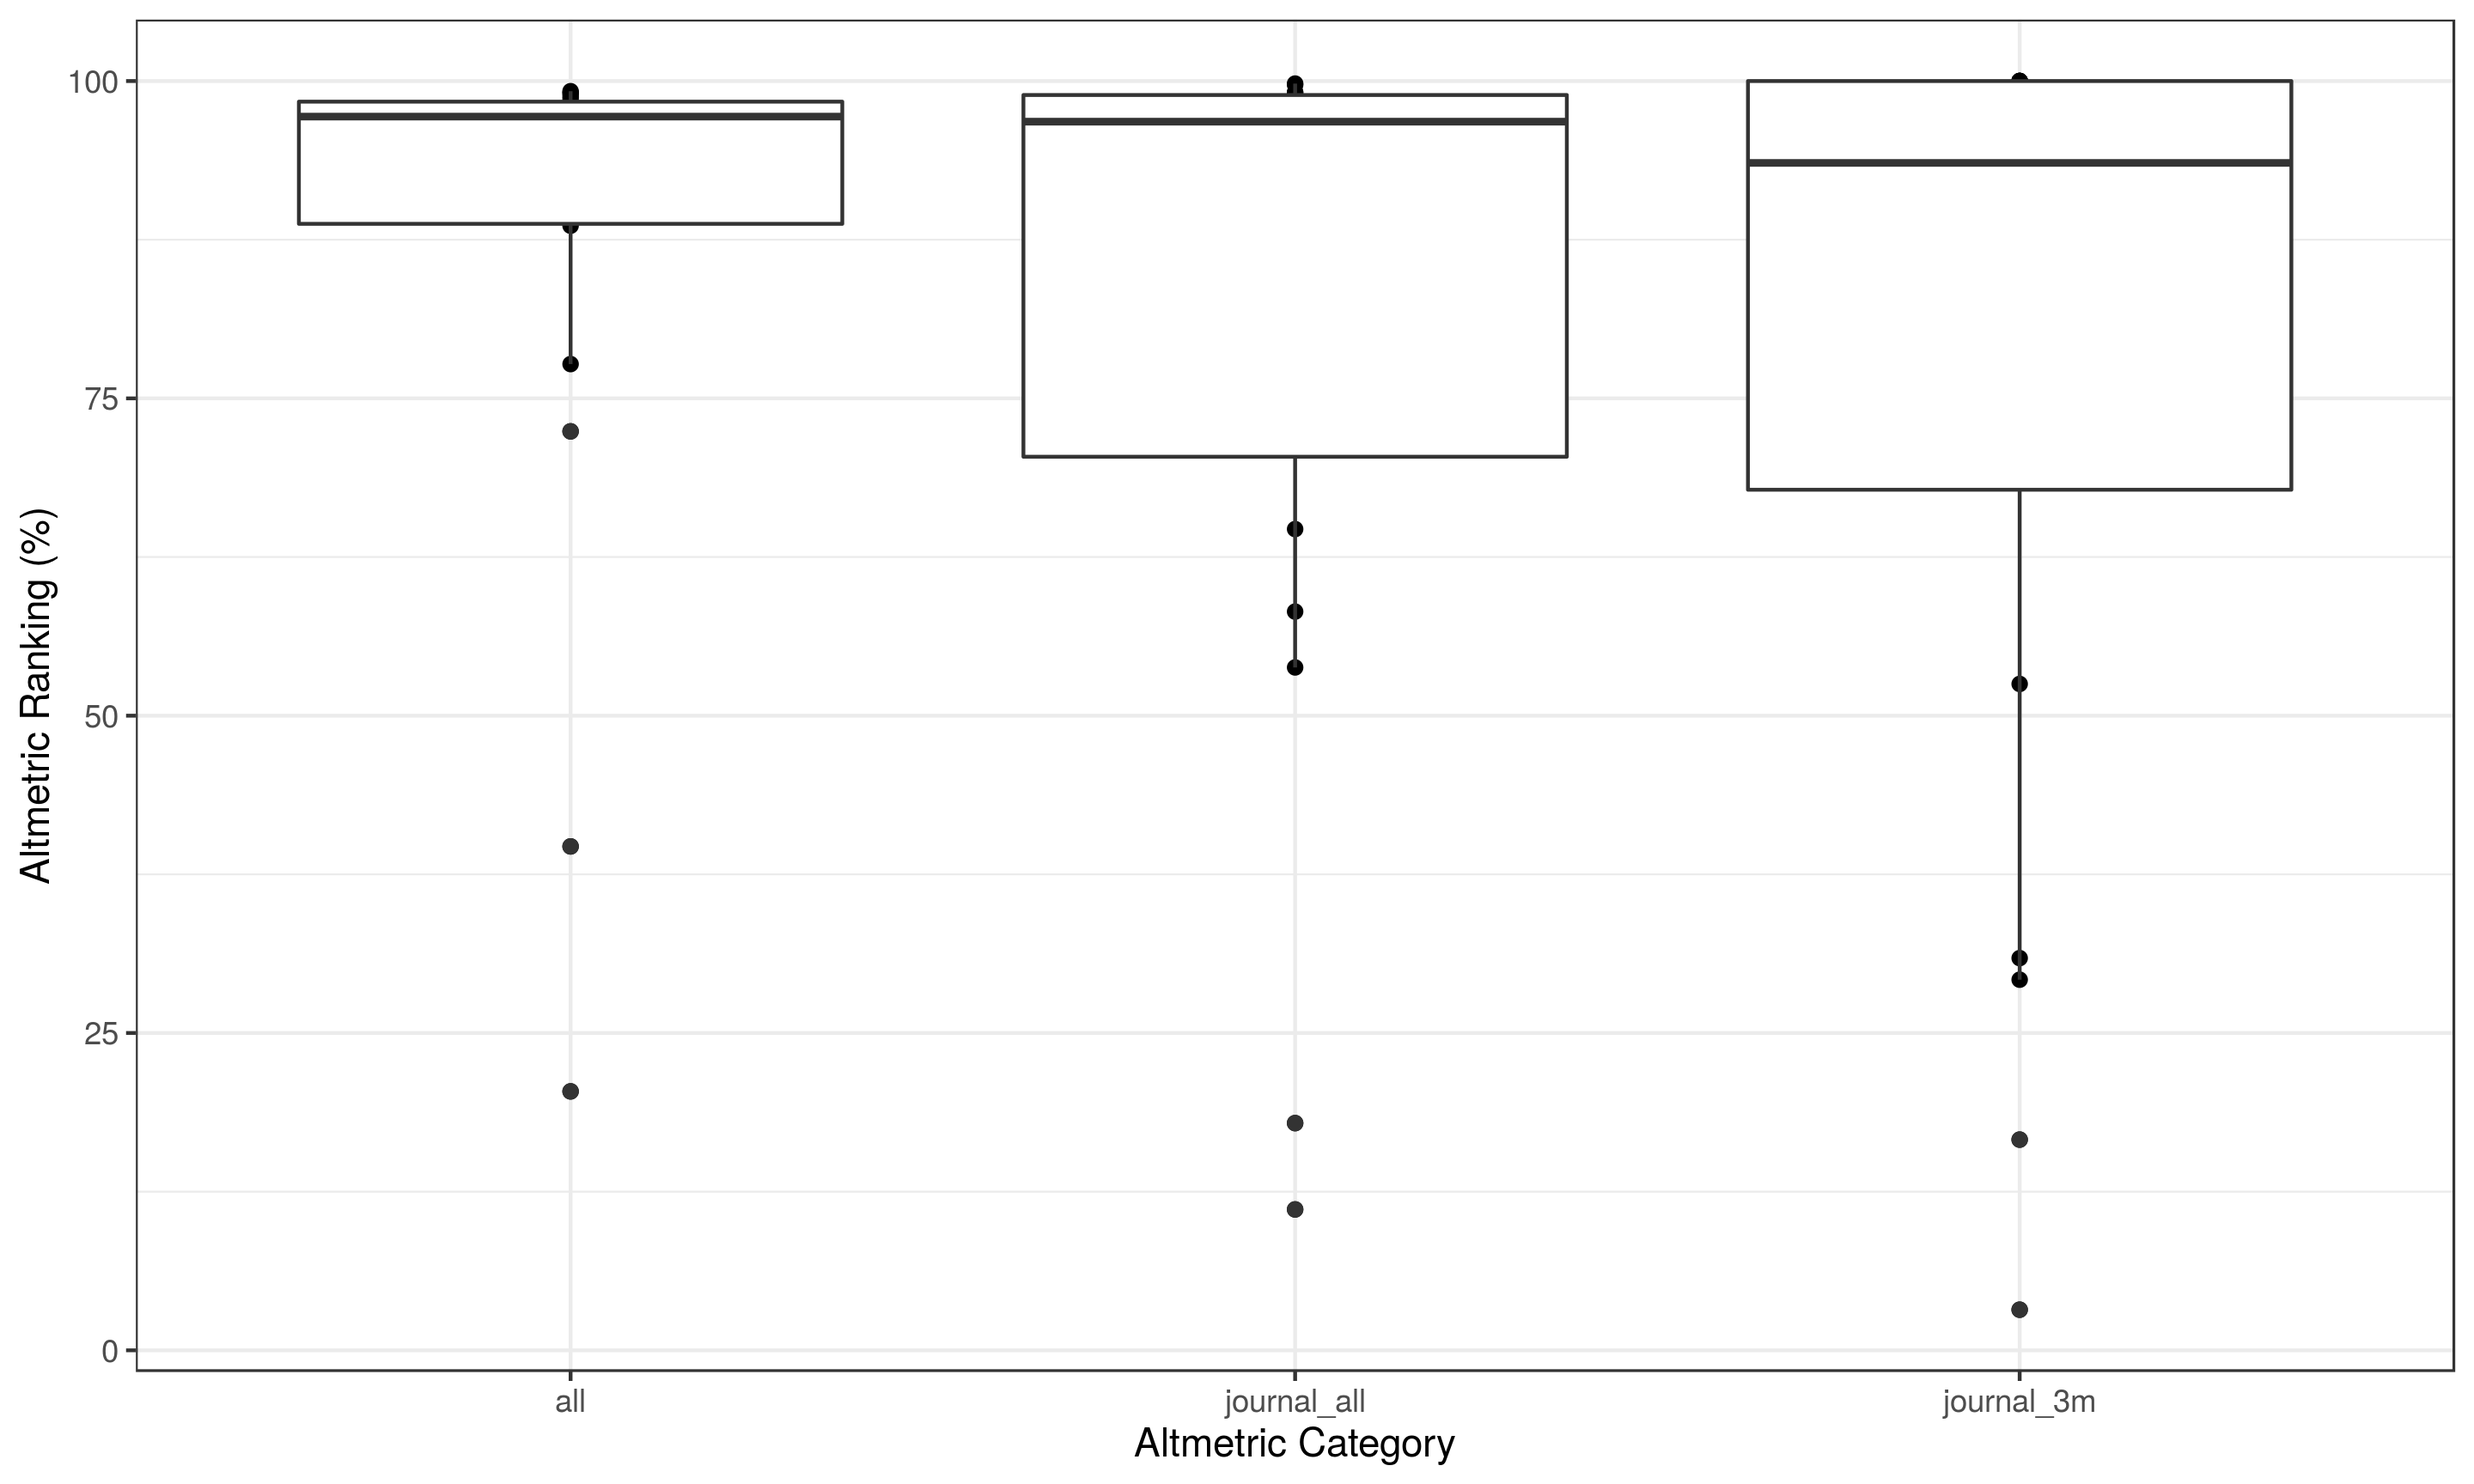
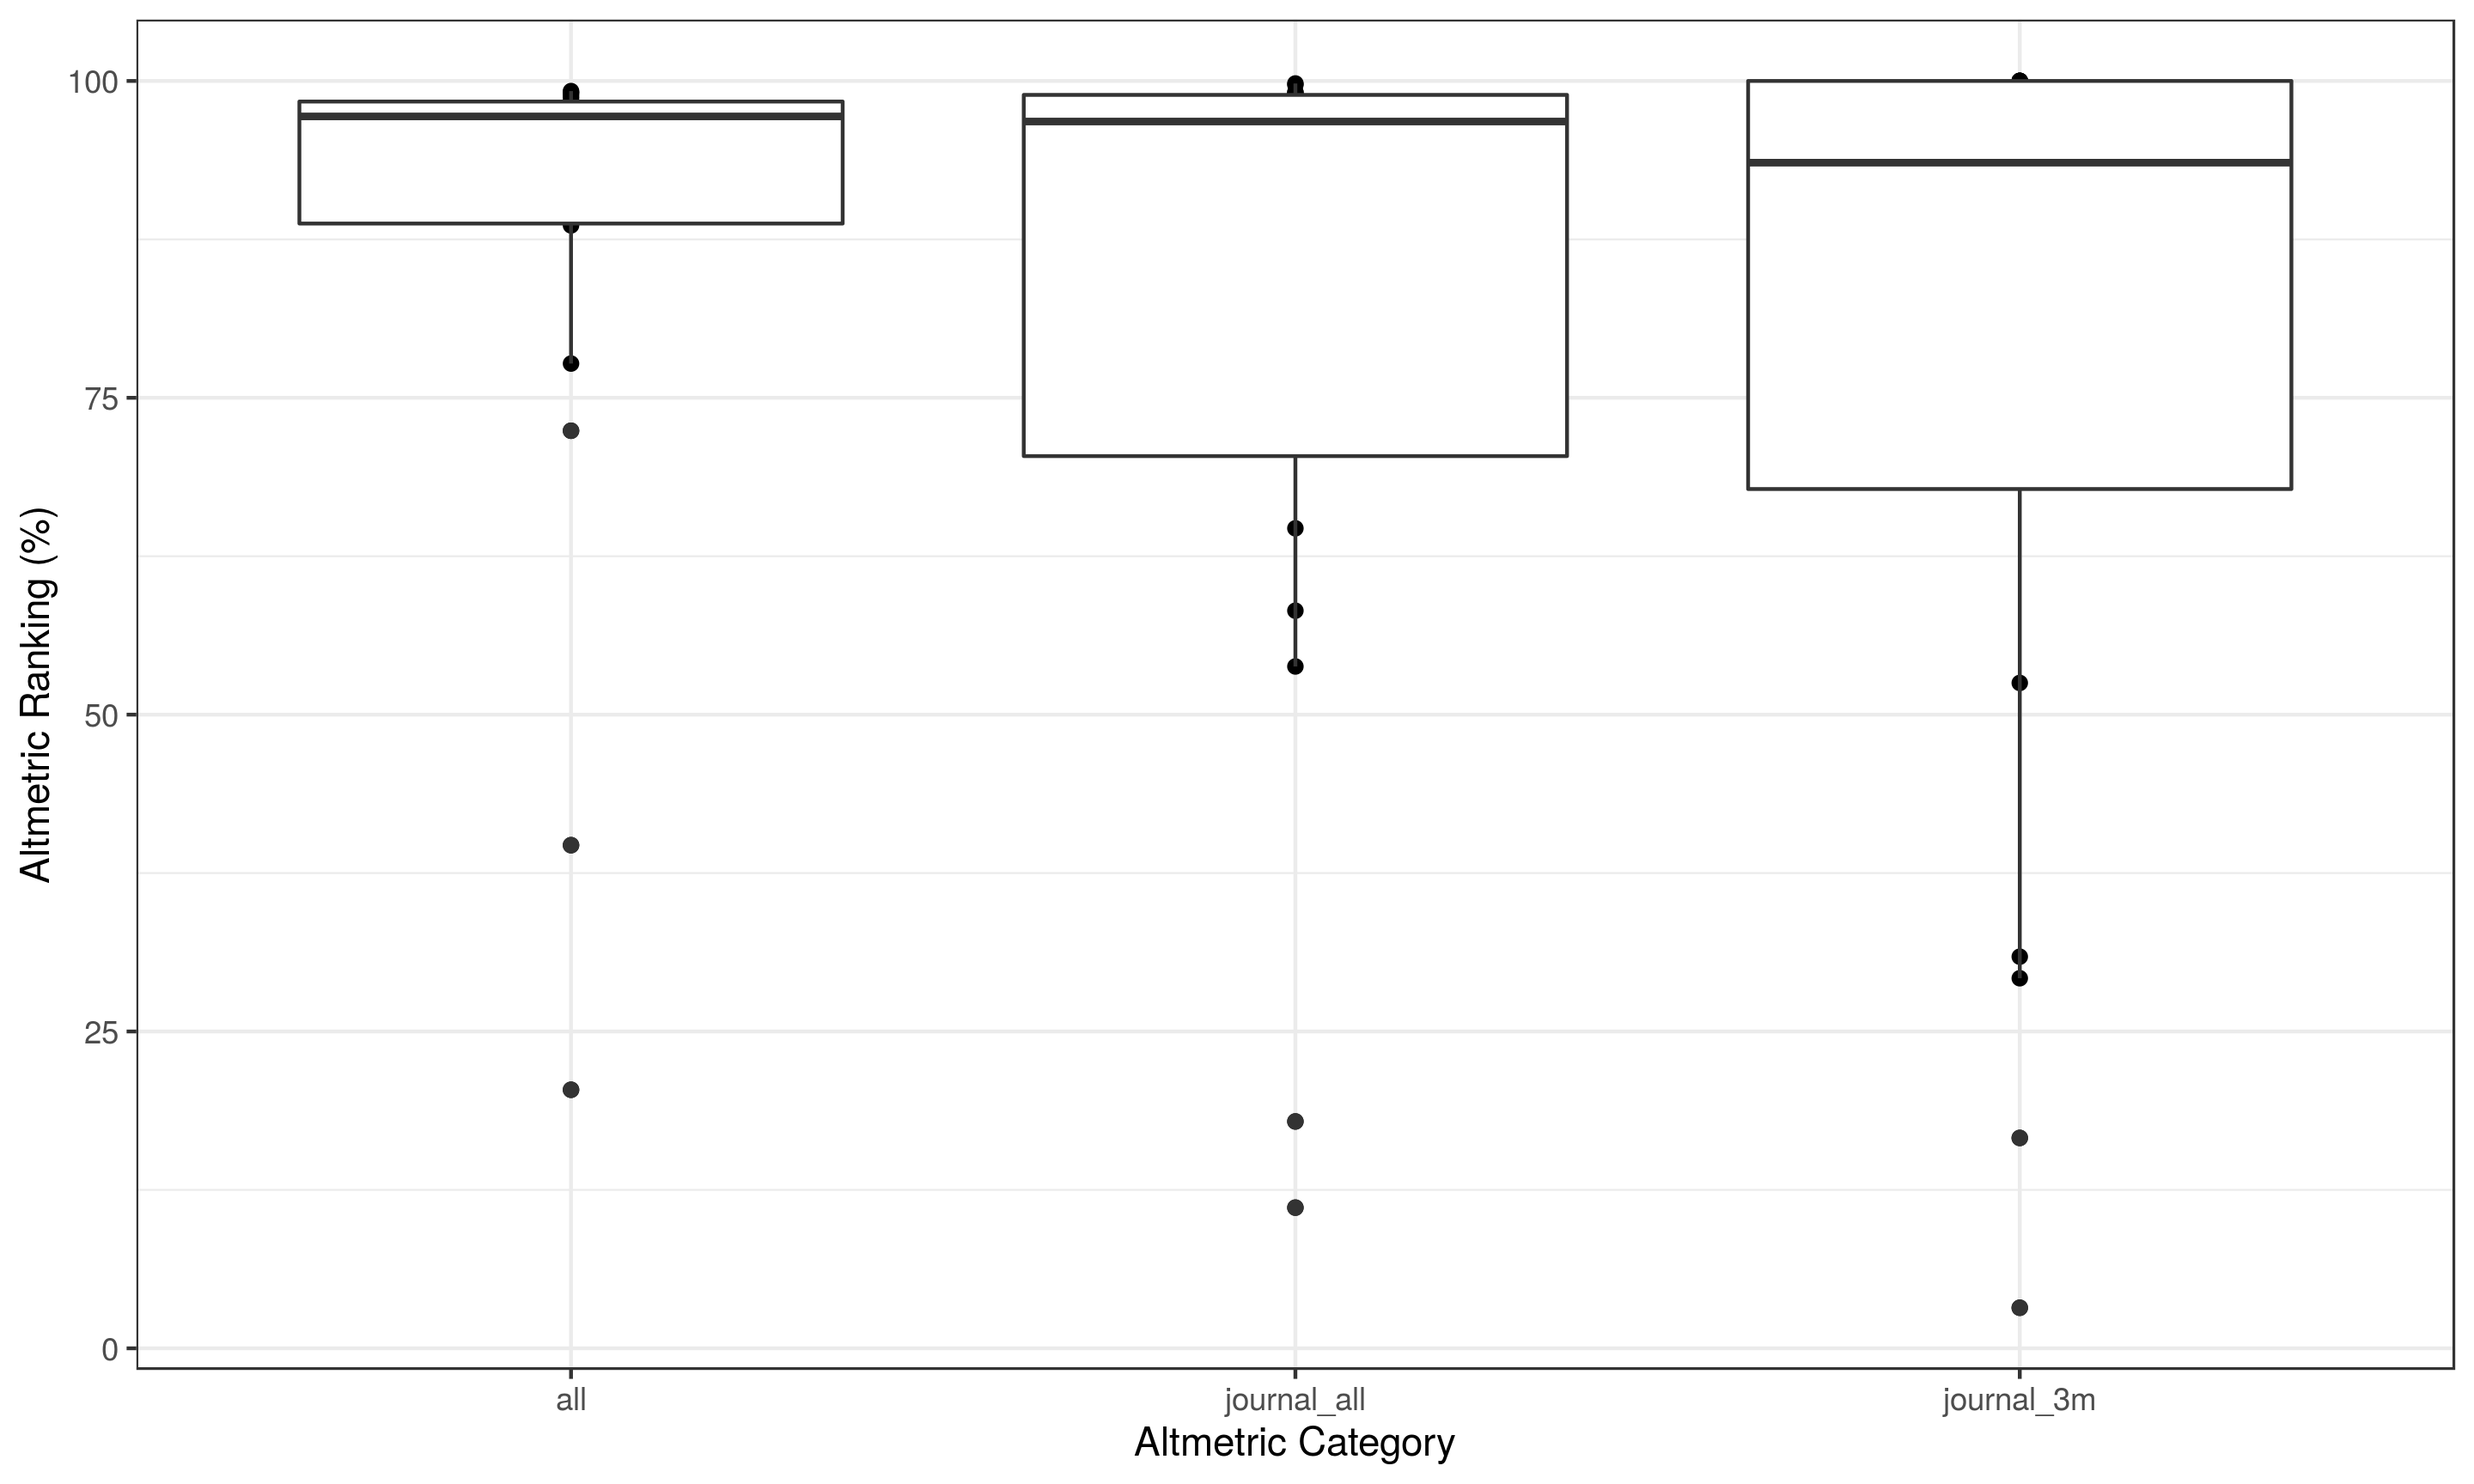
update vig 5

Changed region(s): [[0.0625, 0.9062, 0.9688, 0.9688], [0.5312, 0.9688, 0.5625, 1.0]]

diff --git a/vignettes/vignette_5_altmetric.md b/vignettes/vignette_5_altmetric.md
@@ -2,7 +2,7 @@
 
 On-line attention and engagement for research is now well recognised as
 important alternative metrics to traditional metrics (although there are
-well recognised concerns regarding potential for manipuation), and has
+well recognised concerns regarding potential for manipulation), and has
 been repeatedly found to be positively correlated with article
 citations.
 
@@ -14,8 +14,8 @@ incorporate this data.
 
 **Note**: At present this package only includes Altmetric data. PlumX is
 the other major source of alternative metrics, however there is no open
-API avialable for this product (it requires an authentication token) and
-so has not been incorportated at present.
+API available for this product (it requires an authentication token) and
+so has not been incorporated at present.
 
 ## **impact\_altmetric()**
 
@@ -35,7 +35,7 @@ from:
 
 The `impact_altmetric()` function aims to provide easy access to this
 source of information in useful format. At present this required
-articles to a pubmed identfication number (pmid), however functionality
+articles to a pubmed identification number (pmid), however functionality
 to use DOI as an alternative is planned.
 
 ``` r
@@ -45,9 +45,9 @@ altmetric <- impactr::impact_altmetric(pmid)
 ## **Output**
 
 There are 4 outputs from `impact_altmetric()` as nested dataframes:
-`$df_output`, `$temporal`, `$rank`, and `$source`.
+`$df`, `$temporal`, `$rank`, and `$source`.
 
-### **1. Original dataset ($df\_output)**
+### **1. Original dataset ($df)**
 
 This will return the original dataset with data from altmetric appended
 as columns. There are 4 broad groups that describes the:
@@ -450,7 +450,7 @@ Kamarajah…
 
 <td style="text-align:right;">
 
-\-3916613
+0.7239740
 
 </td>
 
@@ -474,7 +474,7 @@ Kamarajah…
 
 <td style="text-align:right;">
 
-0.5372460
+0.5375282
 
 </td>
 
@@ -498,7 +498,7 @@ Kamarajah…
 
 <td style="text-align:right;">
 
-0.2989691
+0.3092784
 
 </td>
 
@@ -720,7 +720,7 @@ Choi, R. G…
 
 <td style="text-align:right;">
 
-\-582310
+0.9593436
 
 </td>
 
@@ -744,7 +744,7 @@ Choi, R. G…
 
 <td style="text-align:right;">
 
-0.9610420
+0.9612767
 
 </td>
 
@@ -768,7 +768,7 @@ Choi, R. G…
 
 <td style="text-align:right;">
 
-0.9052632
+0.9157895
 
 </td>
 
@@ -990,7 +990,7 @@ NA
 
 <td style="text-align:right;">
 
-\-334118
+0.9762516
 
 </td>
 
@@ -1014,7 +1014,7 @@ NA
 
 <td style="text-align:right;">
 
-0.9700000
+0.9750000
 
 </td>
 
@@ -1038,7 +1038,7 @@ NA
 
 <td style="text-align:right;">
 
-0.9047619
+0.9523810
 
 </td>
 
@@ -1262,7 +1262,7 @@ Griffiths, Reb…
 
 <td style="text-align:right;">
 
-\-124853
+0.9912821
 
 </td>
 
@@ -1286,7 +1286,7 @@ Griffiths, Reb…
 
 <td style="text-align:right;">
 
-0.9789739
+0.9792543
 
 </td>
 
@@ -1310,7 +1310,7 @@ Griffiths, Reb…
 
 <td style="text-align:right;">
 
-0.9135802
+0.9259259
 
 </td>
 
@@ -1531,7 +1531,7 @@ NA
 
 <td style="text-align:right;">
 
-\-114368
+0.9919908
 
 </td>
 
@@ -1555,7 +1555,7 @@ NA
 
 <td style="text-align:right;">
 
-0.9963145
+0.9969287
 
 </td>
 
@@ -1579,7 +1579,7 @@ NA
 
 <td style="text-align:right;">
 
-0.9824561
+1.0000000
 
 </td>
 
@@ -1702,8 +1702,8 @@ NA
 ### **2. Focussed Altmetric datasets**
 
 The following outputs do not contain additional information beyond what
-is already provided in `$df_output`. However, these provide long format
-and focussed aspects of data to facilitate easier visualisation and
+is already provided in `$df`. However, these provide long format and
+focussed aspects of data to facilitate easier visualisation and
 analysis. These exclude any publications not tracked by altmetric.
 
 #### **2. a). altmetric score over time ($temporal)**
@@ -2151,7 +2151,7 @@ same journal at the same time). Within `$rank` these categories
     journal**
 
   - **journal\_3m**: All papers recorded by altmetric **for that journal
-    within 3 month period**
+    within a 3 month period**
 
 For each category, altmetric records the following measures:
 
@@ -2281,7 +2281,7 @@ all
 
 <td style="text-align:right;">
 
-\-3.916613e+06
+0.7239740
 
 </td>
 
@@ -2339,7 +2339,7 @@ journal\_all
 
 <td style="text-align:right;">
 
-5.372460e-01
+0.5375282
 
 </td>
 
@@ -2397,7 +2397,7 @@ journal\_3m
 
 <td style="text-align:right;">
 
-2.989691e-01
+0.3092784
 
 </td>
 
@@ -2455,7 +2455,7 @@ all
 
 <td style="text-align:right;">
 
-\-5.823100e+05
+0.9593436
 
 </td>
 
@@ -2513,7 +2513,7 @@ journal\_all
 
 <td style="text-align:right;">
 
-9.610420e-01
+0.9612767
 
 </td>
 
@@ -2571,7 +2571,7 @@ journal\_3m
 
 <td style="text-align:right;">
 
-9.052632e-01
+0.9157895
 
 </td>
 
@@ -2629,7 +2629,7 @@ all
 
 <td style="text-align:right;">
 
-\-3.341180e+05
+0.9762516
 
 </td>
 
@@ -2687,7 +2687,7 @@ journal\_all
 
 <td style="text-align:right;">
 
-9.700000e-01
+0.9750000
 
 </td>
 
@@ -2745,7 +2745,7 @@ journal\_3m
 
 <td style="text-align:right;">
 
-9.047619e-01
+0.9523810
 
 </td>
 
@@ -2755,24 +2755,20 @@ journal\_3m
 
 </table>
 
+**Figure 2**: Plot of the percentage rank of each publication within
+each altmetric category.
+
 ``` r
 altmetric$rank %>%
   dplyr::mutate(journal = gsub(": The British Journal of Anaesthesia", "", journal),
                 pmid = as.character(pmid)) %>%
-  dplyr::mutate("Altmetric Ranking (%)" = round((1 - (rank-1)/n)*100, 1),
-                "Altmetric Category" = factor(as.character(alm_category),
-                                      levels=c("all", "journal_all", "journal_3m"),
-                                      labels=c("All Altmetric",
-                                               "All from Journal",
-                                               "All from Journal within 3 months"))) %>%
+  dplyr::mutate("Altmetric Ranking (%)" = round(prop*100, 1),
+                "Altmetric Category" = factor(as.character(alm_category), levels=c("all", "journal_all", "journal_3m"))) %>%
   ggplot() +
   aes(x = `Altmetric Category`, y = `Altmetric Ranking (%)`) +
   geom_point() + geom_boxplot() +
   theme_bw()
 ```
-
-**Figure 3**: Plot of the percentage rank of each publication within
-each altmetric category.
 
 <img src="plot/alm_plot2.png" align="center"/>
 
